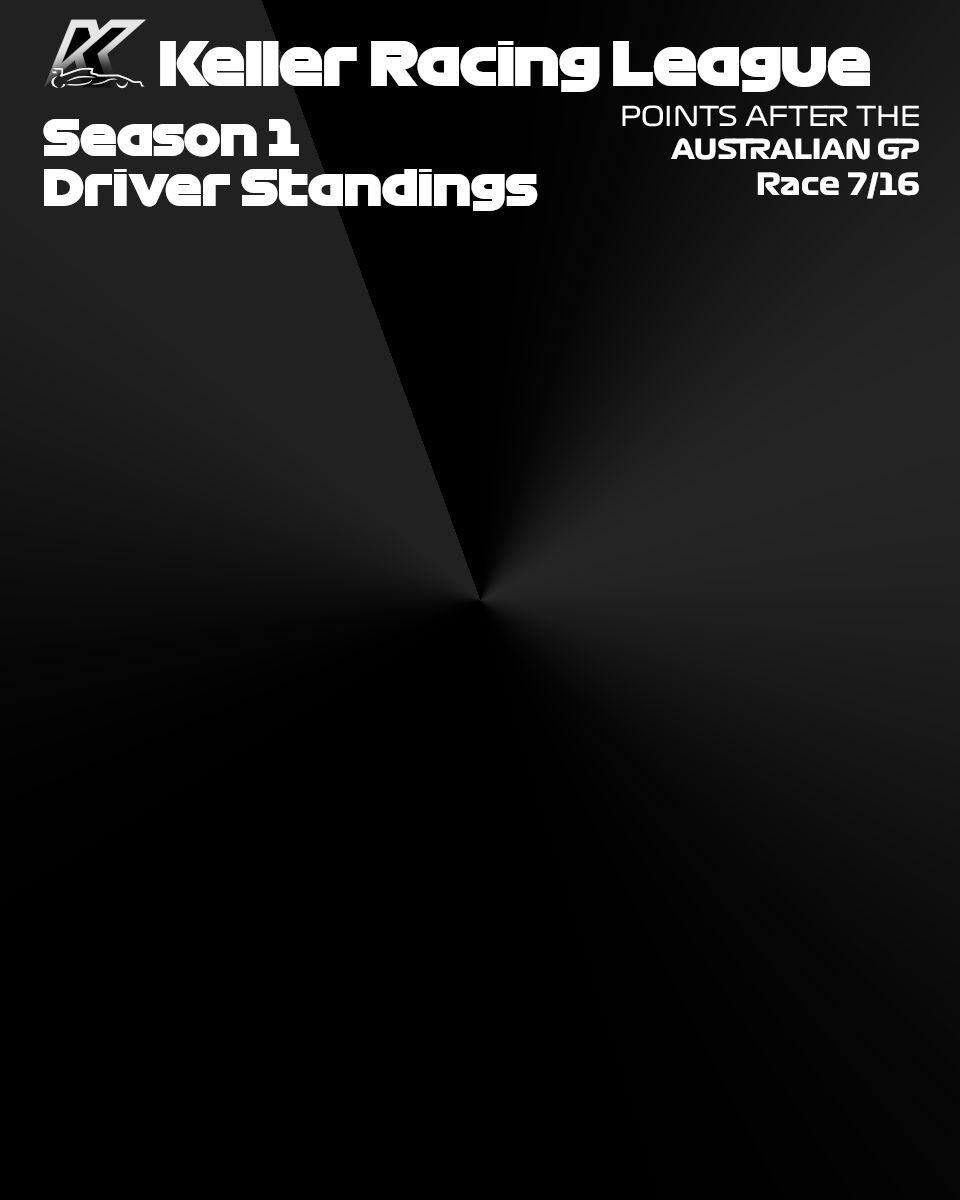
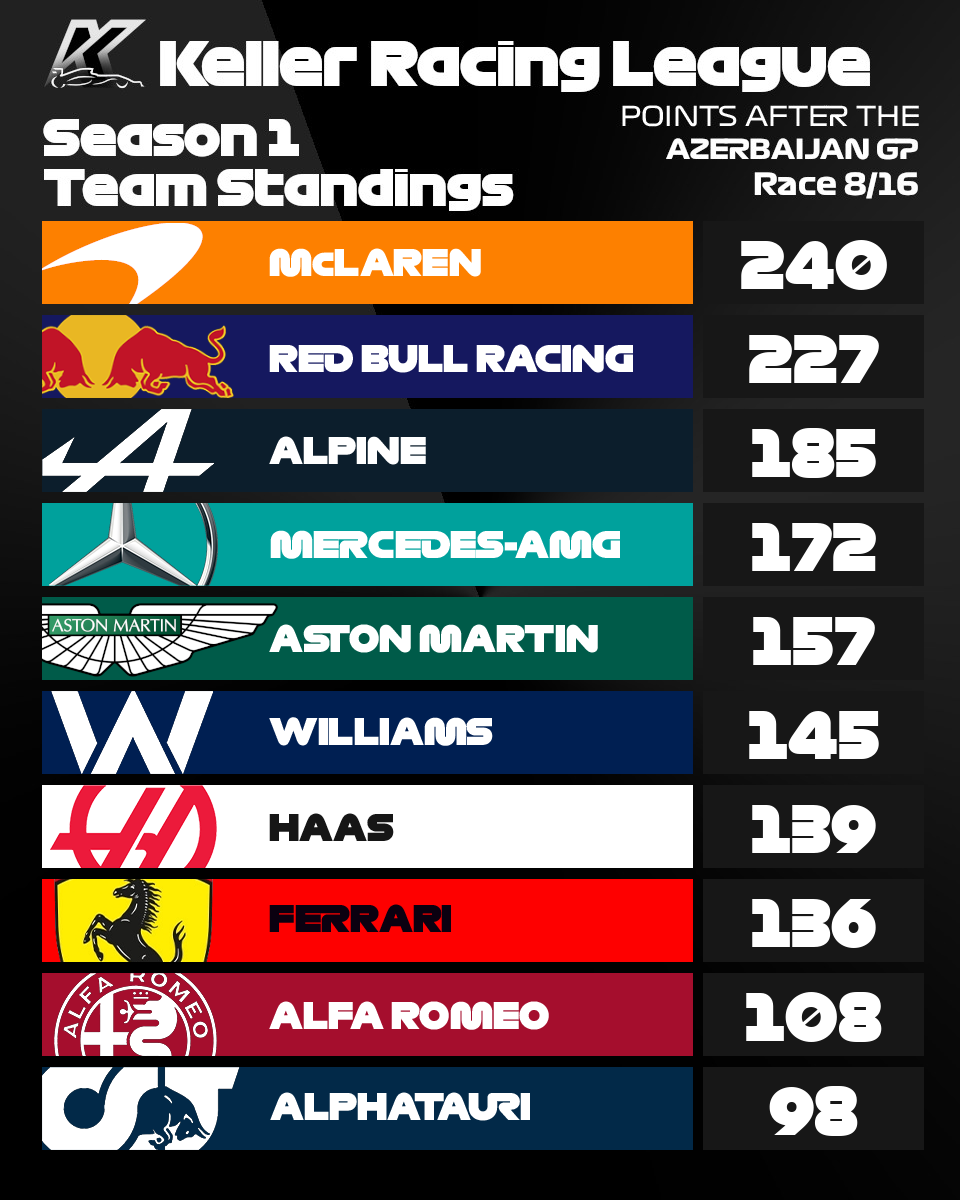
08_aserbaidschan

diff --git a/app/Services/StandingsService.php b/app/Services/StandingsService.php
@@ -10,10 +10,9 @@ class StandingsService
     }
     public function getTeamStandings()
     {
-        $baseImgUrl = "../resources/documents/standings/teams/Base.jpg";
-
-        $base = imagecreatefromjpeg($baseImgUrl);
-        imagepng($base, "../resources/documents/standings/TeamStandings.png");
+        $baseImgUrl= "../resources/documents/standings/teams/Base.jpg";
+        $base = @imagecreatefromjpeg($baseImgUrl);
+        //imagepng($base, "../resources/documents/standings/TeamStandings.png");
 
         $coordinatesPos = array(
             1 => 221,
@@ -37,47 +36,47 @@ class StandingsService
             [
                 "name" => "AlphaTauri",
                 "pos" => 10,
-                "points" => 85
+                "points" => 98
             ],
             [
                 "name" => "Alpine",
                 "pos" => 3,
-                "points" => 170
+                "points" => 185
             ],
             [
                 "name" => "AstonMartin",
-                "pos" => 4,
-                "points" => 154
+                "pos" => 5,
+                "points" => 157
             ],
             [
                 "name" => "Ferrari",
-                "pos" => 5,
+                "pos" => 8,
                 "points" => 136
             ],
             [
                 "name" => "Haas",
-                "pos" => 8,
-                "points" => 111
+                "pos" => 7,
+                "points" => 139
             ],
             [
                 "name" => "McLaren",
-                "pos" => 2,
-                "points" => 193
+                "pos" => 1,
+                "points" => 240,
             ],
             [
                 "name" => "Mercedes",
-                "pos" => 6,
-                "points" => 135
+                "pos" => 4,
+                "points" => 172
             ],
             [
                 "name" => "RedBull",
-                "pos" => 1,
-                "points" => 197
+                "pos" => 2,
+                "points" => 227
             ],
             [
                 "name" => "Williams",
-                "pos" => 7,
-                "points" => 134
+                "pos" => 6,
+                "points" => 145
             ]
         );
 
@@ -88,7 +87,7 @@ class StandingsService
             imagecopymerge($base, $pointsBox, 651 + 52,$coordinatesPos[$team['pos']],0,0, 221, 83,100);
             $tb = imagettfbbox(47, 0, "../resources/fonts/Formula1-Black.ttf", $team['points']);
             $x = ceil((221 - $tb[2]) / 2); // lower left X coordinate for text
-            imagettftext($base, 47, 0, $x + 651 + 52, $coordinatesPos[$team['pos']]+68, $this->getTextColor($base) , "../resources/fonts/Formula1-Black.ttf", $team['points']);
+            imagettftext($base, 47, 0, $x + 651 + 52, $coordinatesPos[$team['pos']]+68, $this->getNumberTextColor($base) , "../resources/fonts/Formula1-Black.ttf", $team['points']);
         }
         imagepng($base, "../resources/documents/standings/TeamStandings.png");
     }
@@ -114,70 +113,71 @@ class StandingsService
                     "name" => "Clemente1804",
                     "team" => "RedBull",
                     "pos" => 1,
-                    "points" => 121
+                    "points" => 129
                 ],
                 [
                     "name" => "Janosch077",
                     "team" => "AstonMartin",
-                    "pos" => 2,
-                    "points" => 99
+                    "pos" => 5,
+                    "points" => 102
                 ],
                 [
                     "name" => "xbatchris",
                     "team" => "Ferrari",
-                    "pos" => 3,
+                    "pos" => 6,
                     "points" => 98
                 ],
                 [
                     "name" => "Ronlu222",
                     "team" => "McLaren",
-                    "pos" => 4,
-                    "points" => 97
+                    "pos" => 2,
+                    "points" => 128
                 ],
                 [
                     "name" => "SBBela",
                     "team" => "McLaren",
-                    "pos" => 5,
-                    "points" => 96
+                    "pos" => 4,
+                    "points" => 112
                 ],
                 [
                     "name" => "Mlody_35",
                     "team" => "EF",
-                    "pos" => 6,
-                    "points" => 95
+                    "pos" => 3,
+                    "points" => 124
                 ],
                 [
                     "name" => "Tizian",
                     "team" => "Alpine",
-                    "pos" => 7,
-                    "points" => 83
-                ],
-                [
-                    "name" => "Dezin",
-                    "team" => "Alpine",
                     "pos" => 8,
-                    "points" => 80
+                    "points" => 97
                 ],
                 [
                     "name" => "Basti1997-TJ",
                     "team" => "RedBull",
-                    "pos" => 9,
-                    "points" => 76
+                    "pos" => 7,
+                    "points" => 98
                 ],
                 [
                     "name" => "Maxinator0904",
                     "team" => "Mercedes",
+                    "pos" => 9,
+                    "points" => 92
+                ],
+                [
+                    "name" => "LSjOM7",
+                    "team" => "Mercedes",
                     "pos" => 10,
-                    "points" => 76
+                    "points" => 87
                 ]
             ],
             2 => [
                 [
-                    "name" => "LSjOM7",
-                    "team" => "Mercedes",
+                    "name" => "Dezin",
+                    "team" => "Alpine",
                     "pos" => 1,
-                    "points" => 66
+                    "points" => 81
                 ],
+
                 [
                     "name" => "ToniTempo",
                     "team" => "AlfaRomeo",
@@ -193,20 +193,20 @@ class StandingsService
                 [
                     "name" => "Nobbler1975",
                     "team" => "AstonMartin",
-                    "pos" => 4,
+                    "pos" => 5,
                     "points" => 55
                 ],
                 [
                     "name" => "prefy",
                     "team" => "Haas",
-                    "pos" => 5,
+                    "pos" => 6,
                     "points" => 48
                 ],
                 [
                     "name" => "HamburgerJung",
                     "team" => "AlphaTauri",
-                    "pos" => 6,
-                    "points" => 43
+                    "pos" => 4,
+                    "points" => 56
                 ],
                 [
                     "name" => "DMK160988",
@@ -237,26 +237,26 @@ class StandingsService
                 [
                     "name" => "xPhilippFCB",
                     "team" => "EF",
-                    "pos" => 1,
+                    "pos" => 2,
                     "points" => 16
                 ],
                 [
                     "name" => "SDC_Beesel",
                     "team" => "EF",
-                    "pos" => 2,
+                    "pos" => 3,
                     "points" => 14
                 ],
                 [
                     "name" => "Cuyahoga89",
                     "team" => "AlphaTauri",
-                    "pos" => 3,
+                    "pos" => 4,
                     "points" => 13
                 ],
                 [
                     "name" => "ag_323_ha",
                     "team" => "EF",
-                    "pos" => 4,
-                    "points" => 8
+                    "pos" => 1,
+                    "points" => 20
                 ],
                 [
                     "name" => "Ramrod",
